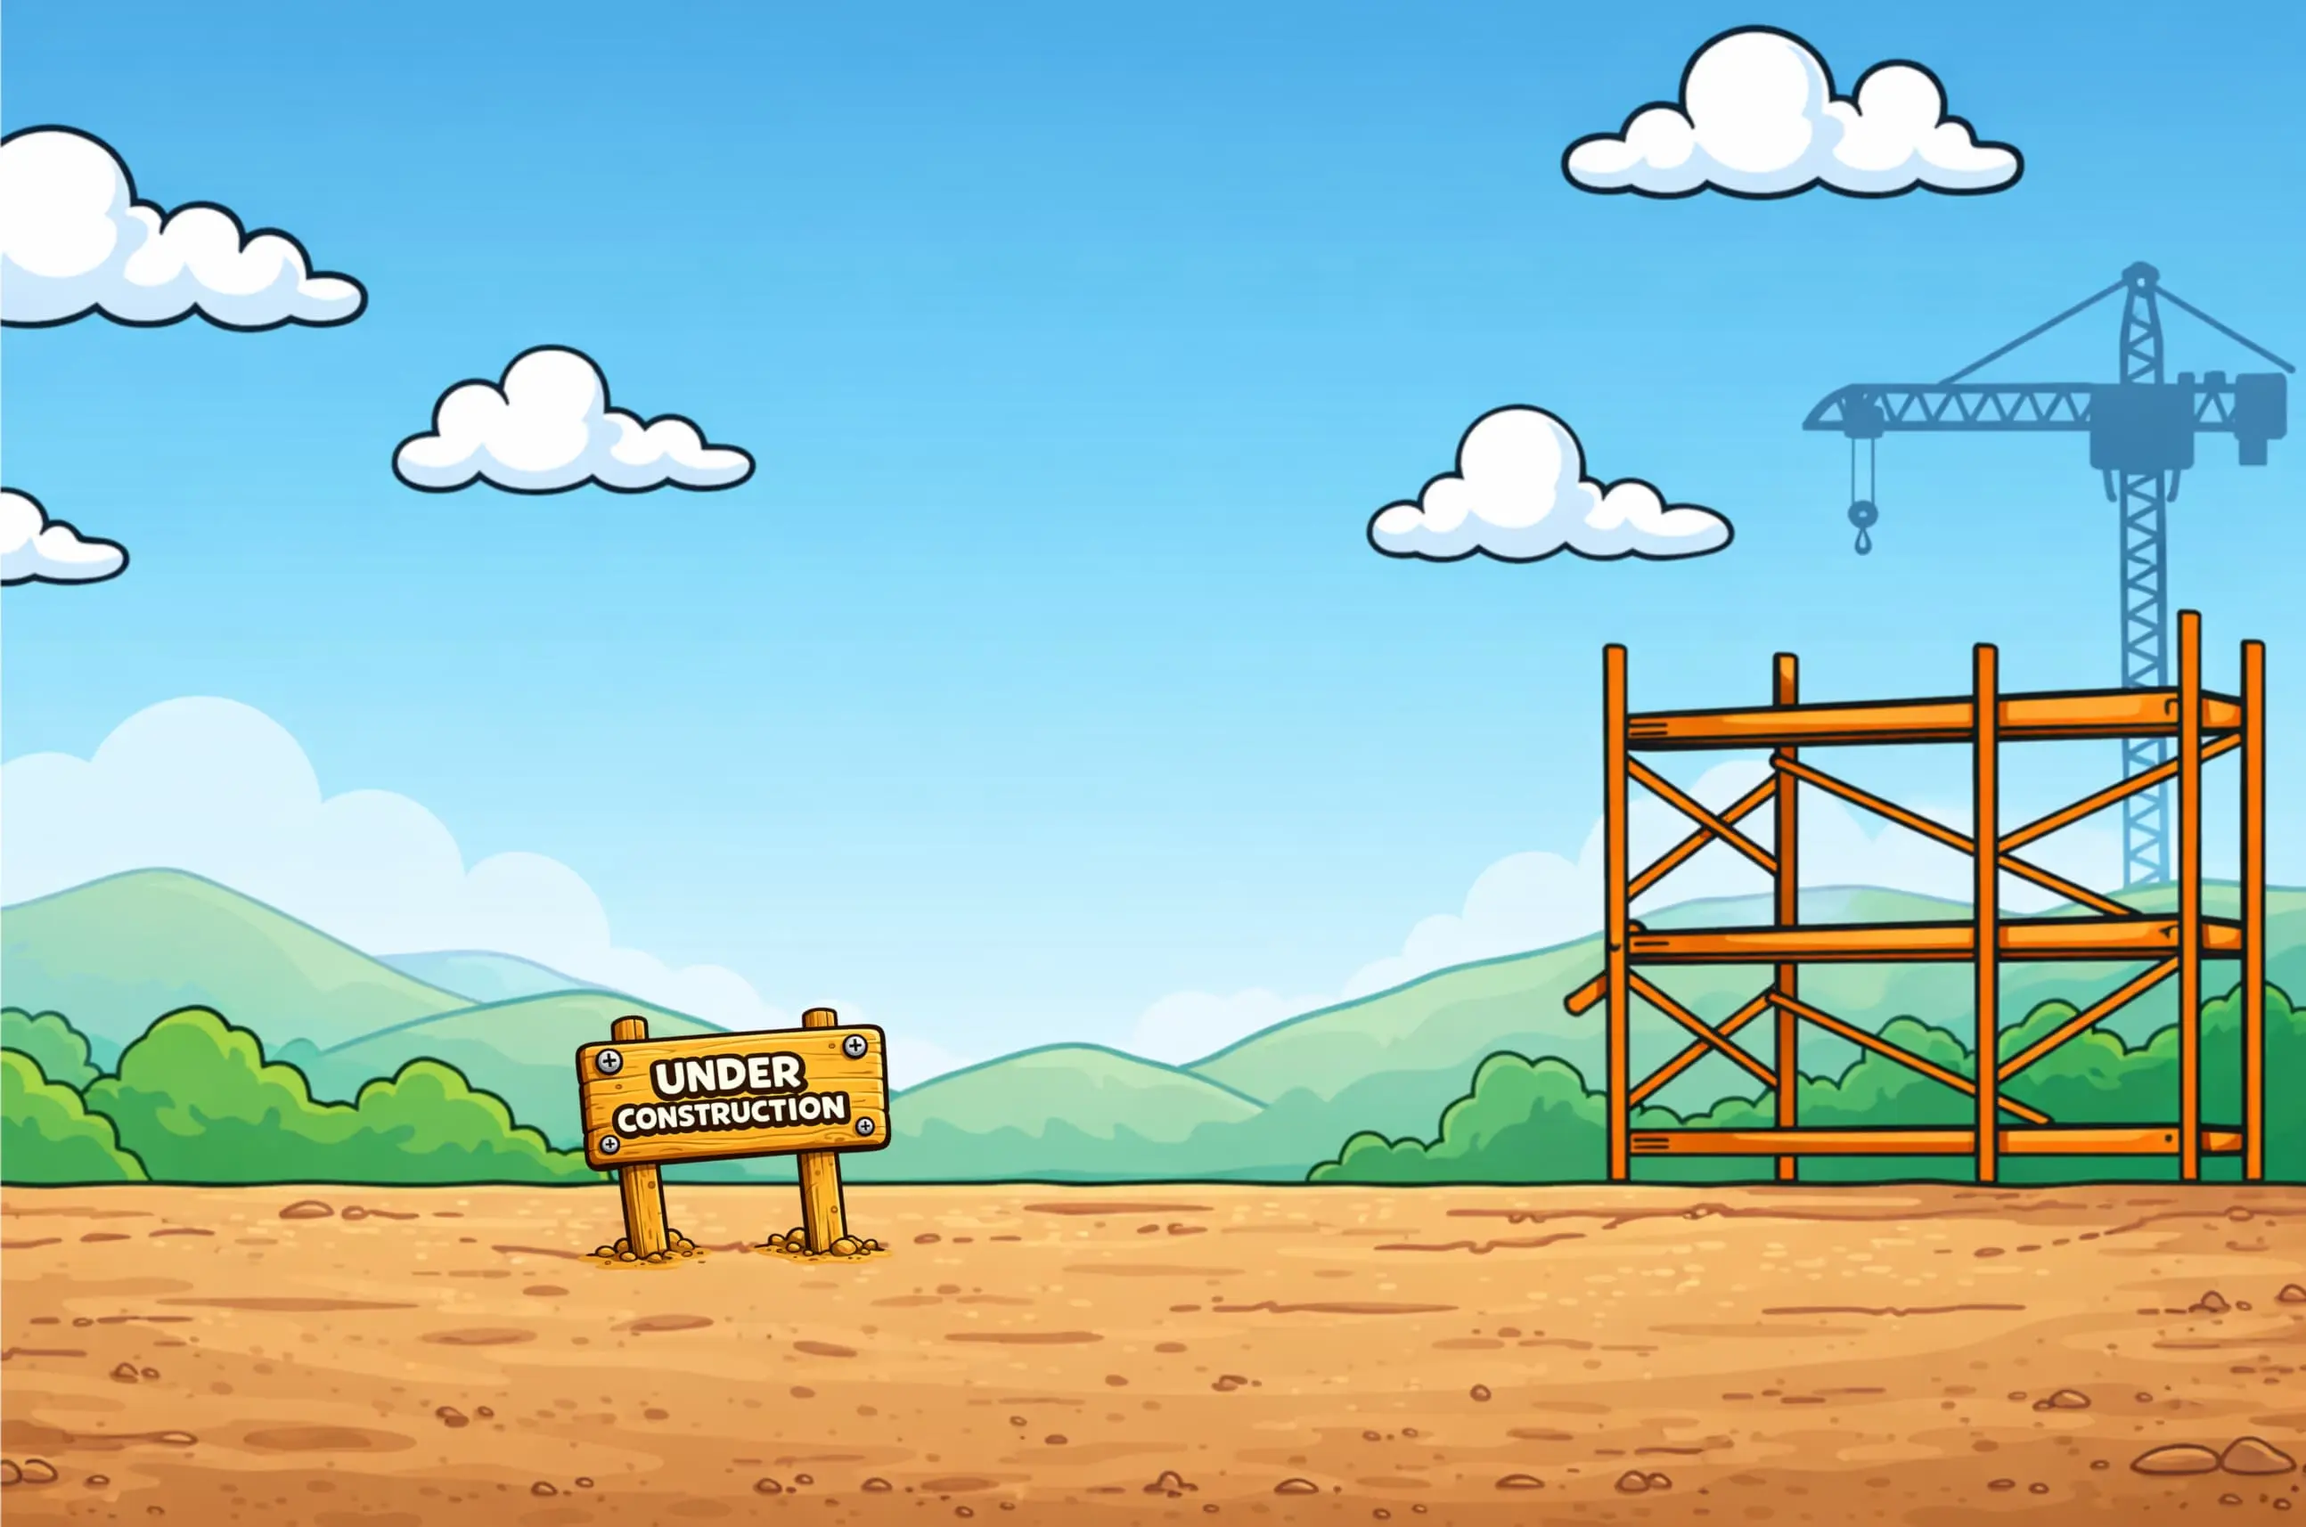
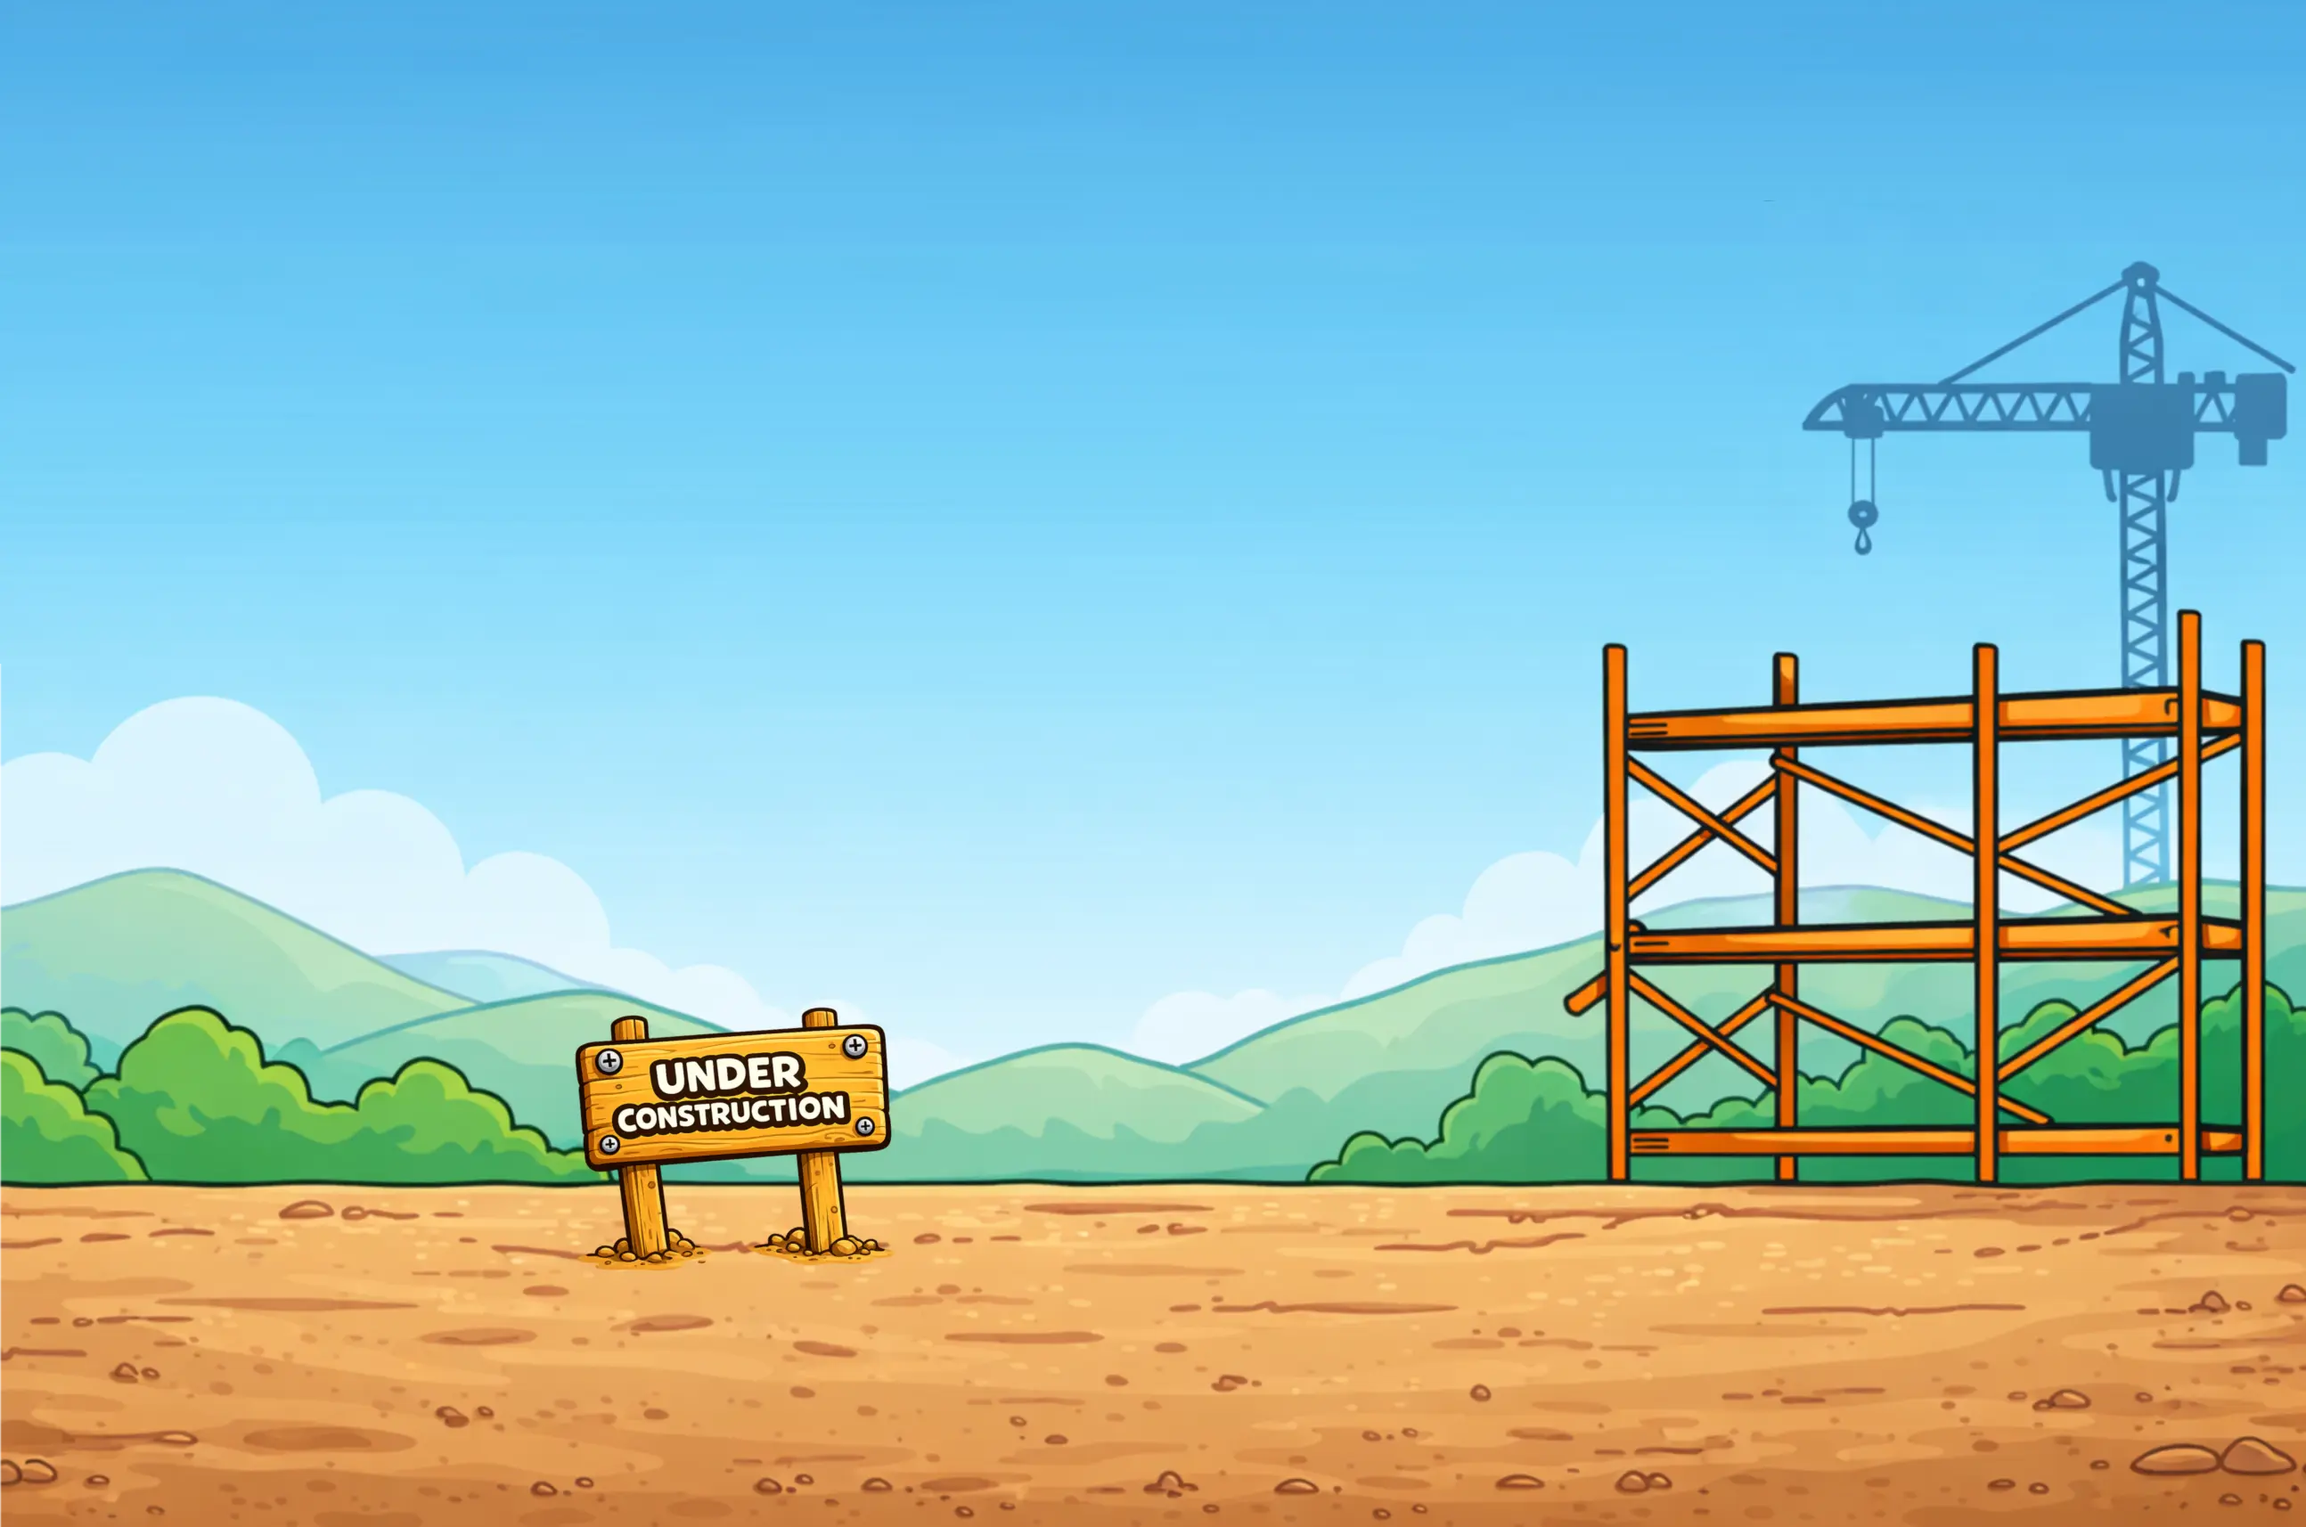
Add files via upload

diff --git a/game.js b/game.js
@@ -96,7 +96,8 @@ function rectsIntersect(a,b){
 // ---- Engine (ported) ----
 // Original platform/hazard sizes so sprites match original gameplay scale
 const ORIGINAL_PLATFORM_HEIGHT = 22;
-const ORIGINAL_HAZARD_GROUND_SIZE = 26;   // slightly bigger cones
+const ORIGINAL_HAZARD_GROUND_SIZE = 26;   // draw size for cone sprite
+const HAZARD_COLLISION_SIZE = 18;        // smaller hitbox so collision matches visible cone
 const ORIGINAL_HAZARD_CEILING_SIZE = 32;
 const LEDGE1_FIT_HEIGHT_MULT = 3;        // ledge1 drawn 3x (50% bigger than 2x) taller than other ledges
 const SURFACE_COLLISION_HEIGHT = 1; // thin strip so feet align with visible ledge top
@@ -180,7 +181,8 @@ function resetWorldOnly(){
     moveSpeed: 0,
     phase: 0,
     ledgeIndex: startLedgeIndex,
-    ledge4Double: startLedgeIndex === 3 && Math.random() < 0.5
+    ledge4Double: startLedgeIndex === 3 && Math.random() < 0.5,
+    ledge1DoubleMirror: startLedgeIndex === 0 && Math.random() < 0.5
   });
 
   ensureContent();
@@ -252,10 +254,19 @@ function showKeepPushingPopup(message) {
   keepPushingPopup.setAttribute("aria-hidden", "false");
 }
 
+function hideLeaderboardOverlay() {
+  if (!leaderboardOverlay) return;
+  if (document.activeElement && leaderboardOverlay.contains(document.activeElement)) {
+    document.activeElement.blur();
+  }
+  leaderboardOverlay.classList.add("hidden");
+  leaderboardOverlay.setAttribute("aria-hidden", "true");
+}
+
 function doPlayAgain() {
   if (gameOver) gameOver.classList.add("hidden");
   if (keepPushingPopup) keepPushingPopup.classList.add("hidden");
-  if (leaderboardOverlay) leaderboardOverlay.classList.add("hidden");
+  hideLeaderboardOverlay();
   submitMsg.textContent = "";
   resetAll();
   state.bgIndex = (state.bgIndex + 1) % assets.bgs.length;
@@ -391,7 +402,8 @@ function generateChunk(startX){
     moveSpeed: 0,
     phase: 0,
     ledgeIndex,
-    ledge4Double: ledgeIndex === 3 && Math.random() < 0.5   // ledge4 sometimes 2 in a row
+    ledge4Double: ledgeIndex === 3 && Math.random() < 0.5,   // ledge4 sometimes 2 in a row
+    ledge1DoubleMirror: ledgeIndex === 0 && Math.random() < 0.5   // ledge1 sometimes doubled, second half mirrored
   };
   if (isMoving){
     p.moveAmp = rand(18,44);
@@ -445,7 +457,8 @@ function getLedgeGeometry(p){
   const fitH = ledgeName === "ledge1"
     ? ORIGINAL_PLATFORM_HEIGHT * LEDGE1_FIT_HEIGHT_MULT
     : ORIGINAL_PLATFORM_HEIGHT;
-  const isDouble = ledgeName === "ledge2" || (ledgeName === "ledge4" && p.ledge4Double);
+  const isDouble = ledgeName === "ledge2" || (ledgeName === "ledge4" && p.ledge4Double) || (ledgeName === "ledge1" && p.ledge1DoubleMirror);
+  const mirrorSecond = ledgeName === "ledge1" && p.ledge1DoubleMirror;
   const scale = isDouble
     ? Math.min(p.w / (2 * nw), fitH / nh)
     : Math.min(p.w / nw, fitH / nh);
@@ -453,7 +466,7 @@ function getLedgeGeometry(p){
   const dh = nh * scale;
   const totalW = isDouble ? dw * 2 : dw;
   const drawX = p.x + (p.w - totalW) / 2;
-  return { drawX, totalW, dw, dh, ledgeName, ledgeImg, isDouble };
+  return { drawX, totalW, dw, dh, ledgeName, ledgeImg, isDouble, mirrorSecond };
 }
 
 function resolvePlatformCollisions(){
@@ -512,7 +525,8 @@ function checkShardCollisions(){
 function checkHazardCollisions(){
   const pr = { x:state.player.x, y:state.player.y, w:TUNE.playerSize.w, h:TUNE.playerSize.h };
   for (const h of state.hazards){
-    const hr = { x:h.x, y:h.y, w:h.size, h:h.size };
+    const pad = (h.size - HAZARD_COLLISION_SIZE) / 2;
+    const hr = { x: h.x + pad, y: h.y + pad, w: HAZARD_COLLISION_SIZE, h: HAZARD_COLLISION_SIZE };
     if (rectsIntersect(pr, hr)){
       endRun();
       return;
@@ -594,7 +608,9 @@ function draw(){
     const scale = Math.max(w / bgImg.width, h / bgImg.height);
     const dw = bgImg.width * scale;
     const dh = bgImg.height * scale;
-    const x = (w - dw) / 2;
+    const isMobile = w <= 768;
+    // On mobile, shift view right so more of left side of bg visible (0.48 = bias left)
+    const x = isMobile ? (w / 2) - (dw * 0.4) : (w - dw) / 2;
     const y = (h - dh) / 2;
     ctx.globalAlpha = 1;
     ctx.drawImage(bgImg, x, y, dw, dh);
@@ -610,7 +626,15 @@ function draw(){
       const drawY = p.y;
       if (geo.isDouble) {
         ctx.drawImage(geo.ledgeImg, geo.drawX, drawY, geo.dw, geo.dh);
-        ctx.drawImage(geo.ledgeImg, geo.drawX + geo.dw, drawY, geo.dw, geo.dh);
+        if (geo.mirrorSecond) {
+          ctx.save();
+          ctx.translate(geo.drawX + geo.dw * 2, drawY);
+          ctx.scale(-1, 1);
+          ctx.drawImage(geo.ledgeImg, 0, 0, geo.dw, geo.dh);
+          ctx.restore();
+        } else {
+          ctx.drawImage(geo.ledgeImg, geo.drawX + geo.dw, drawY, geo.dw, geo.dh);
+        }
       } else {
         ctx.drawImage(geo.ledgeImg, geo.drawX, drawY, geo.dw, geo.dh);
       }
@@ -776,7 +800,7 @@ window.addEventListener("keyup", (e) => {
 startBtn.addEventListener("click", () => {
   overlay.classList.add("hidden");
   gameOver.classList.add("hidden");
-  if (leaderboardOverlay) leaderboardOverlay.classList.add("hidden");
+  hideLeaderboardOverlay();
   if (keepPushingPopup) keepPushingPopup.classList.add("hidden");
   resetAll();
   state.bgIndex = (state.bgIndex + 1) % assets.bgs.length;
@@ -817,7 +841,11 @@ if (leaderboardSubmitScoreBtn) {
     try {
       const sc = Math.floor(state.score);
       await submitScore(name, sc);
-      await getTopScores().then(rows => renderLeaderboardPopup(rows));
+      // Delay so Firestore write is visible before refetch
+      await new Promise((r) => setTimeout(r, 800));
+      const rows = await getTopScores();
+      renderLeaderboardPopup(rows);
+      renderTop10(null, rows);
       burstSubmissionConfetti();
       if (leaderboardSubmitMsg) leaderboardSubmitMsg.textContent = "Submitted! 🎉";
     } catch (err) {
@@ -830,7 +858,7 @@ if (leaderboardSubmitScoreBtn) {
 
 if (leaderboardPlayAgainBtn) {
   leaderboardPlayAgainBtn.addEventListener("click", () => {
-    if (leaderboardOverlay) leaderboardOverlay.classList.add("hidden");
+    hideLeaderboardOverlay();
     leaderboardSubmitSection.classList.add("hidden");
     if (closeLeaderboardBtn) closeLeaderboardBtn.classList.remove("hidden");
     doPlayAgain();
@@ -881,10 +909,7 @@ async function openLeaderboardPopup() {
 
 if (closeLeaderboardBtn) {
   closeLeaderboardBtn.addEventListener("click", () => {
-    if (leaderboardOverlay) {
-      leaderboardOverlay.classList.add("hidden");
-      leaderboardOverlay.setAttribute("aria-hidden", "true");
-    }
+    hideLeaderboardOverlay();
     if (leaderboardSubmitSection) leaderboardSubmitSection.classList.add("hidden");
     if (closeLeaderboardBtn) closeLeaderboardBtn.classList.remove("hidden");
   });

diff --git a/home.css b/home.css
@@ -1,23 +1,42 @@
-body {
+html, body {
     margin: 0;
+    padding: 0;
     overflow: hidden;
     font-family: Arial, sans-serif;
+    width: 100%;
+    height: 100%;
 }
 
 .sky {
-    width: 100vw;
-    min-height: 100vh;          /* change from height to min-height */
-    background-image: url("assets/websitebg.webp");
+    width: 100%;
+    min-height: 100vh;
+    background-image: url("assets/mainbg.webp");
     background-size: cover;
     background-position: center;
     background-repeat: no-repeat;
     position: relative;
+    box-sizing: border-box;
 }
 
+/* Clouds – move left across screen, wrap from right when off left (all pages) */
+.cloud {
+    position: absolute;
+    z-index: 0;
+    pointer-events: none;
+}
+.cloud-1 { top: 4%;  left: 100%; width: 36vw;  max-width: 400px; animation: cloudMoveLeft 52s linear infinite; animation-delay: 0s;   }
+.cloud-2 { top: 8%;  left: 100%; width: 28vw;  max-width: 320px; animation: cloudMoveLeft 58s linear infinite; animation-delay: -15s; }
+.cloud-3 { top: 2%;  left: 100%; width: 32vw;  max-width: 360px; animation: cloudMoveLeft 48s linear infinite; animation-delay: -28s; }
 
-/* LOGO POSITION – 2x size with subtle float */
+@keyframes cloudMoveLeft {
+    0%   { transform: translateX(0); }
+    100% { transform: translateX(-140vw); }
+}
+
+/* LOGO POSITION – 2x size with subtle float (above clouds) */
 .logo {
     position: absolute;
+    z-index: 1;
     top: 18%;
     left: 35%;
     transform: translate(-50%, -50%);
@@ -28,9 +47,10 @@ body {
 }
 
 
-/* CRANE HOOK POSITION */
+/* CRANE HOOK POSITION (above clouds) */
 .hook {
     position: absolute;
+    z-index: 1;
     top: -10px;
     right: 8%;
     width: 14vw;
@@ -40,9 +60,10 @@ body {
     animation: swing 4s ease-in-out infinite alternate;
 }
 
-/* ENTER BUTTON – bottom right */
+/* ENTER BUTTON – bottom right (above clouds) */
 .button-area {
     position: absolute;
+    z-index: 1;
     bottom: 40px;
     right: 40px;
 }
@@ -107,26 +128,53 @@ body {
 
 @media (max-width: 768px) {
 
+    /* Fill viewport on iPhone – avoid white bars and cut-off */
+    html, body {
+        min-height: 100vh;
+        min-height: 100dvh;
+    }
+    .sky {
+        min-height: 100vh;
+        min-height: 100dvh;
+        height: 100%;
+        background-image: url("assets/iphonemainbg.webp");
+        background-size: cover;
+        background-position: 58% center;
+    }
+
+    /* Clouds at slightly different levels, all moving left (same as desktop) */
+    .cloud-1 { top: 2%;  left: 100%; width: 44vw;  animation: cloudMoveLeft 50s linear infinite; animation-delay: 0s;   }
+    .cloud-2 { top: 10%; left: 100%; width: 40vw;  animation: cloudMoveLeft 55s linear infinite; animation-delay: -18s; }
+    .cloud-3 { top: 5%;  left: 100%; width: 48vw;  animation: cloudMoveLeft 48s linear infinite; animation-delay: -30s; }
+
+    /* Logo under crane hook – no min-width so it fits narrow viewports */
     .logo {
-        top: 22%;
+        top: 30%;
         left: 50%;
         width: 90vw;
         max-width: 520px;
+        min-width: 0;
         transform: translate(-50%, -50%);
     }
 
+    /* Crane hook – smaller so it fits on screen, inset from edge */
     .hook {
-        right: 5%;
-        width: 28vw;
+        right: 4%;
+        width: 24vw;
+        max-width: 100px;
     }
 
+    /* Enter button centered, near bottom of viewport */
     .button-area {
+        left: 50%;
+        right: auto;
         bottom: 24px;
-        right: 24px;
+        transform: translateX(-50%);
     }
 
     #enterBtn {
         font-size: 18px;
         padding: 14px 32px;
+        white-space: nowrap;
     }
 }

diff --git a/style.css b/style.css
@@ -14,6 +14,28 @@ html, body {
     height: 100vh;
   }
 
+  /* Cloud layer – top 1/3 to 1/2, behind crane hook */
+  .game-cloud-layer {
+    position: fixed;
+    top: 0;
+    left: 0;
+    width: 100%;
+    height: 50%;
+    pointer-events: none;
+    z-index: 2;
+  }
+  .game-cloud {
+    position: absolute;
+    animation: cloudMoveLeft 50s linear infinite;
+  }
+  .game-cloud-1 { top: 6%;  left: 100%; width: 40vw;  max-width: 360px; animation: cloudMoveLeft 52s linear infinite; animation-delay: 0s;   }
+  .game-cloud-2 { top: 12%; left: 100%; width: 32vw;  max-width: 280px; animation: cloudMoveLeft 58s linear infinite; animation-delay: -18s; }
+  .game-cloud-3 { top: 3%;  left: 100%; width: 36vw;  max-width: 320px; animation: cloudMoveLeft 46s linear infinite; animation-delay: -32s; }
+  @keyframes cloudMoveLeft {
+    0%   { transform: translateX(0); }
+    100% { transform: translateX(-140vw); }
+  }
+
   /* Crane hook – match home page exactly (position, size, swing) */
   .game-hook {
     position: fixed;

diff --git a/index.html b/index.html
@@ -2,7 +2,7 @@
 <html lang="en">
 <head>
 <meta charset="utf-8" />
-<meta name="viewport" content="width=device-width,initial-scale=1" />
+<meta name="viewport" content="width=device-width,initial-scale=1,viewport-fit=cover" />
 <title>Little Ollie – Under Construction</title>
 
 <link rel="stylesheet" href="home.css" />
@@ -11,6 +11,9 @@
 <body>
 
     <div class="sky">
+        <img src="assets/cloud1.webp" class="cloud cloud-1" alt="" aria-hidden="true" />
+        <img src="assets/cloud2.webp" class="cloud cloud-2" alt="" aria-hidden="true" />
+        <img src="assets/cloud3.webp" class="cloud cloud-3" alt="" aria-hidden="true" />
 
         <img src="assets/websitelogo.webp" class="logo" />
         <img src="assets/cranehook.webp" class="hook" />

diff --git a/game.html b/game.html
@@ -9,6 +9,11 @@
 <body>
 
   <canvas id="game"></canvas>
+  <div class="game-cloud-layer" aria-hidden="true">
+    <img src="assets/cloud1.webp" class="game-cloud game-cloud-1" alt="" />
+    <img src="assets/cloud2.webp" class="game-cloud game-cloud-2" alt="" />
+    <img src="assets/cloud3.webp" class="game-cloud game-cloud-3" alt="" />
+  </div>
   <img src="assets/cranehook.webp" class="game-hook" alt="" />
 
 

diff --git a/leaderboard.js b/leaderboard.js
@@ -132,6 +132,7 @@ export async function submitScore(name, score) {
       const oldScore = Math.floor(Number(docSnap.data().score) || 0);
       if (sc <= oldScore) return;
       await updateDoc(doc(db, SCORES_COL, docSnap.id), {
+        name: nm,
         score: sc,
         createdAt: serverTimestamp(),
       });
